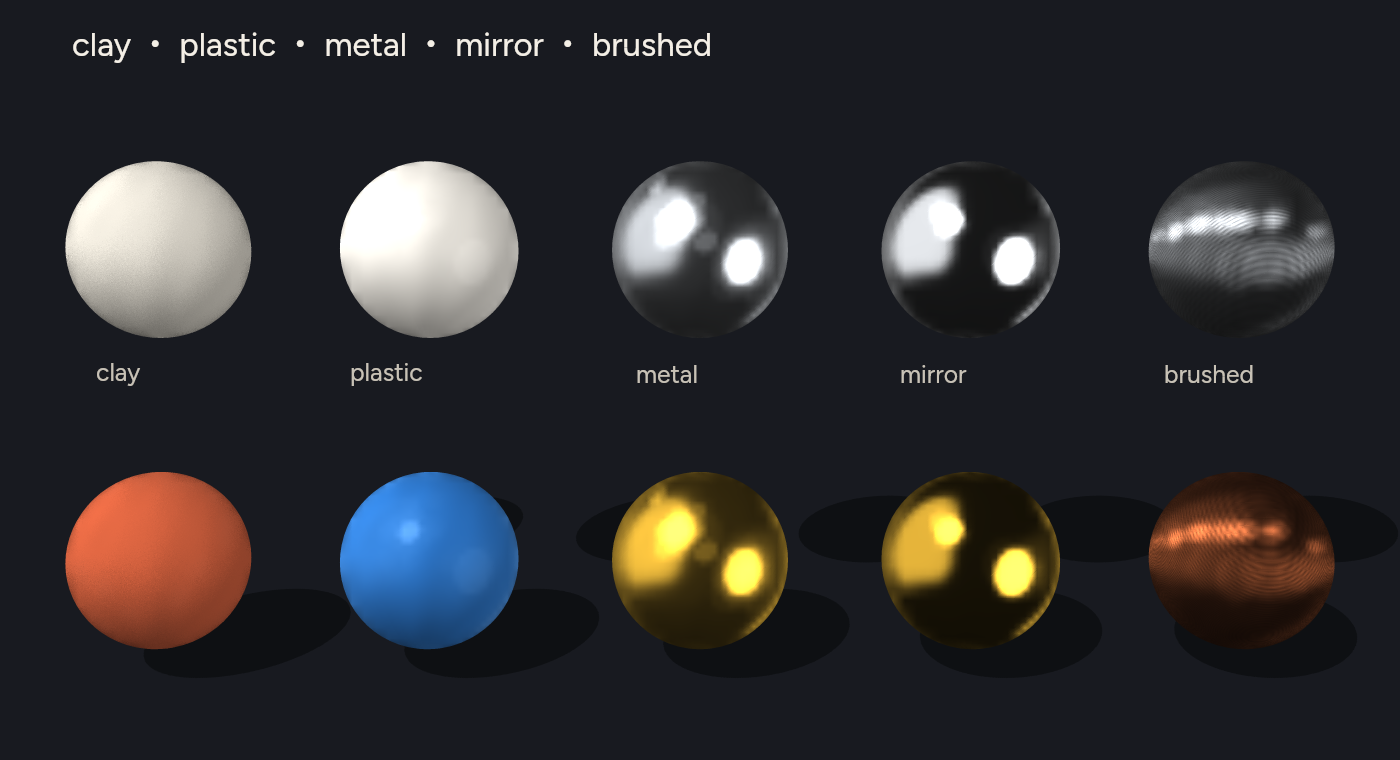
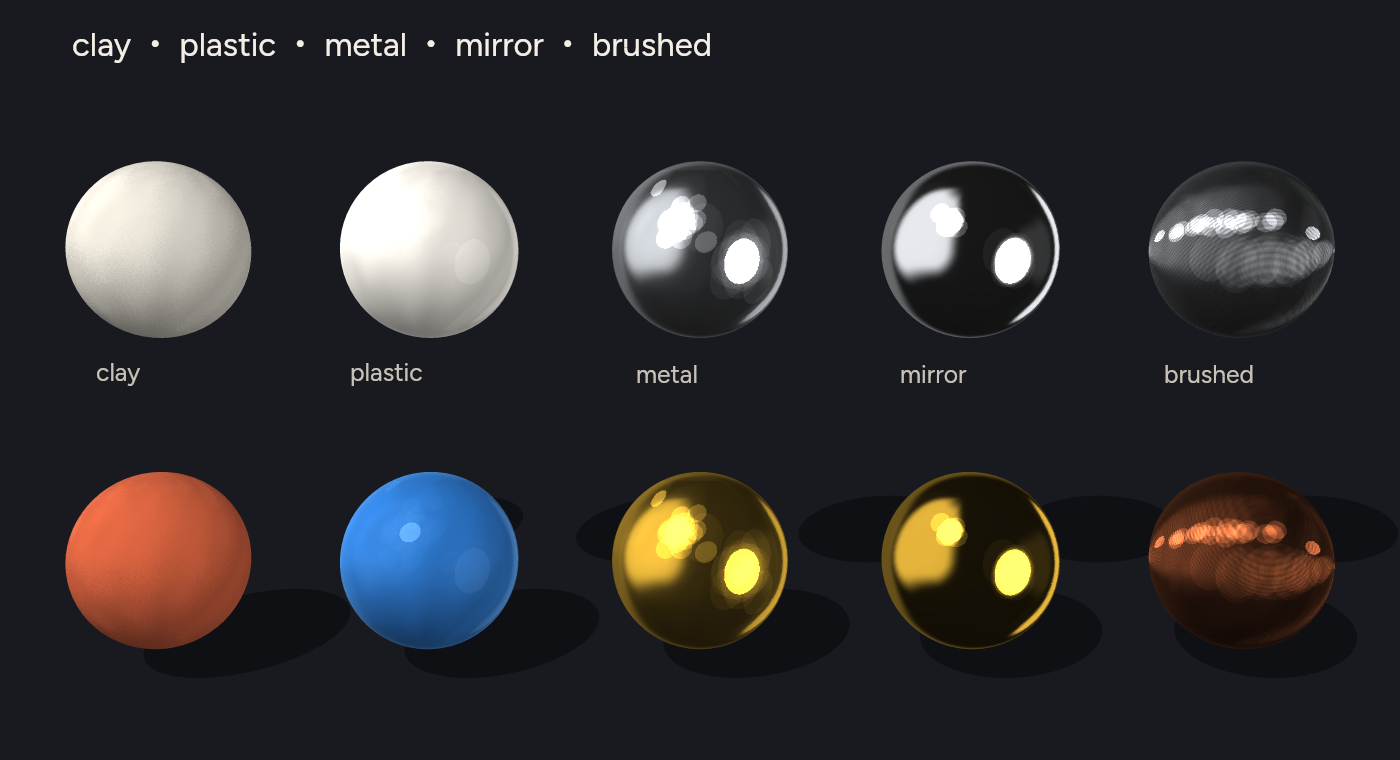
Flex Layer 0.13.6
Baked finishes stay sharp on a large picture. The linux-x64-gnu addon is rebuilt. darwin-arm64 is unchanged.

diff --git a/CHANGELOG.md b/CHANGELOG.md
@@ -2,6 +2,10 @@
 
 ## Unreleased
 
+## 0.13.6
+
+A baked finish on a large picture samples the lighting map from how fast the normal moves across the screen. Grain and brushed stripes keep their own blur. The lighting maps are 256×256. `native/flexlayer-render` for linux-x64-gnu is rebuilt. The darwin-arm64 binary is unchanged.
+
 ## 0.13.5
 
 `material="clay"`, `plastic`, `metal`, `mirror`, and `brushed` are baked finishes. Omit `fill` and the finish uses its own color. A `fill` recolors it. A number after one of those names reports `invalid-attr`. `matte`, `glass`, and `plastic`, `metal`, or `glass` followed by a roughness stay on the older shading. Omitting `material` is still matte. A model with no `material` still maps three.js kinds onto that older shading.
